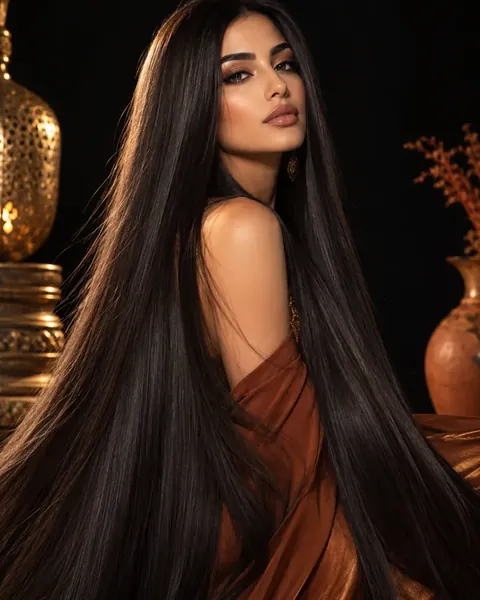
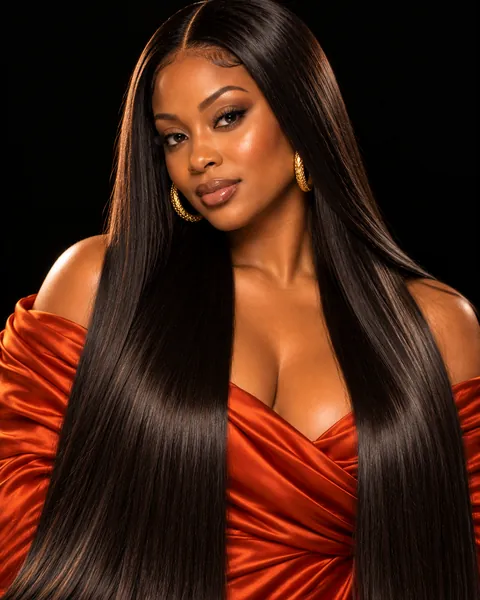
Wig Match: ChatGPT photo portraits for Bone Straight (Long) and Ultra Silky Extra-Long (QA passed); Spring Twists keeps its interim portrait (ChatGPT version did not match its label)

diff --git a/public/photo-placeholders.js b/public/photo-placeholders.js
@@ -4,7 +4,7 @@
  * styles.css. The first row of each photo grid loads eagerly; the rest stay lazy.
  */
 (() => {
-  const PALETTE = {"about-banner.webp":"#342014","community-arab.webp":"#1d180d","community-black-american.webp":"#302715","community-caribbean.webp":"#241d10","community-central-asian.webp":"#241d10","community-east-african.webp":"#2b2211","community-east-asian.webp":"#201a10","community-indigenous.webp":"#1d170e","community-latina.webp":"#2b210f","community-mixed.webp":"#322916","community-north-african.webp":"#271e0f","community-pacific-islander.webp":"#2e2412","community-south-african.webp":"#22190c","community-south-asian.webp":"#20190e","community-southeast-asian.webp":"#382b14","community-west-african.webp":"#1e150a","dna-badge.webp":"#312011","festival-diwali.webp":"#5f3218","festival-eid.webp":"#332c1f","hero-banner.webp":"#3f2518","ingredient-argan.webp":"#47301c","ingredient-rooibos.webp":"#2b170e","ingredient-shea.webp":"#584935","ingredient-turmeric.webp":"#5d3815","leap/accra.webp":"#5f3a17","leap/addis_ababa.webp":"#7c6451","leap/bangkok.webp":"#543927","leap/dubai.webp":"#503723","leap/istanbul.webp":"#492c1d","leap/johannesburg.webp":"#4f301d","leap/kingston.webp":"#50331e","leap/lagos.webp":"#604527","leap/marrakech.webp":"#7c4a2f","leap/mexico_city.webp":"#7c4f37","leap/mumbai.webp":"#482819","leap/nairobi.webp":"#654637","leap/rio.webp":"#4c2b17","leap/seoul.webp":"#503a28","leap/tehran.webp":"#53432b","leap/tokyo.webp":"#704f35","loading-screen.webp":"#362113","look-afro-glam-editorial.webp":"#422616","look-afro-latina.webp":"#492b1a","look-afrobeats-concert.webp":"#4a2d1b","look-afrobeats-queen.webp":"#4b2b12","look-afrofuturist-editorial.webp":"#39271e","look-afrofuturist.webp":"#2c231f","look-afropunk-edge.webp":"#34241a","look-afropunk-rebel.webp":"#241811","look-amapiano-babe.webp":"#3f2817","look-amapiano-beat.webp":"#4d2d19","look-amazigh-berber.webp":"#413025","look-arab-chic.webp":"#402e23","look-black-girl-natural.webp":"#442a1b","look-black-tie-gala.webp":"#42291a","look-blasian-editorial.webp":"#473020","look-bold-lip-deep.webp":"#342017","look-bollywood-bridal.webp":"#4d3524","look-bollywood-diva.webp":"#422b1b","look-brazilian-carnival.webp":"#5f3b24","look-caribbean-carnival.webp":"#603824","look-central-asian-steppe.webp":"#483124","look-champi-ritual.webp":"#584233","look-chinese-new-year.webp":"#523c31","look-clean-minimal.webp":"#4d3321","look-congolese-sapeur.webp":"#41271e","look-cumbia-corazon.webp":"#482714","look-dancehall-queen.webp":"#4e311d","look-date-night-drama.webp":"#492e1d","look-desi-baddie.webp":"#3c281a","look-desi-everyday-chic.webp":"#533b2a","look-diwali-festive.webp":"#62412b","look-eid-glam.webp":"#543a2b","look-ethiopian-icon.webp":"#443125","look-ethiopian-jewel.webp":"#462c1c","look-festival-glitter.webp":"#513322","look-filipina-glam.webp":"#543c2c","look-first-nations-powwow.webp":"#4f3525","look-gele-tie.webp":"#502a19","look-ghanaian-kente-glam.webp":"#462b19","look-graduation-glow.webp":"#5d3f2b","look-gua-sha-facial.webp":"#73665f","look-gulf-glam.webp":"#473226","look-haitian-roots.webp":"#321a11","look-haitian-vodou-editorial.webp":"#422515","look-hammam-glow.webp":"#6e6059","look-hawaiian-aloha.webp":"#623a29","look-hbcu-homecoming.webp":"#472c1c","look-hip-hop-glam.webp":"#4c3220","look-hip-hop-icon.webp":"#39271a","look-indigenous-latina.webp":"#593823","look-indigenous-star.webp":"#322016","look-indo-arabian-fusion.webp":"#543a29","look-j-beauty-muse.webp":"#57483e","look-j-beauty.webp":"#614e42","look-japanese-gyaru.webp":"#6c513e","look-k-beauty-glass.webp":"#685245","look-k-beauty-seoul.webp":"#4c3f38","look-kenyan-nairobi-chic.webp":"#442716","look-khaleeji-goddess.webp":"#45362b","look-kohl-smoky.webp":"#33261f","look-kpop-muse.webp":"#5d4d47","look-latina-glam.webp":"#553724","look-loc-journey.webp":"#4a2a1f","look-mehndi-bridal.webp":"#624736","look-mehndi-hands.webp":"#4b3222","look-mixed-heritage-luminous.webp":"#533523","look-moroccan-soiree.webp":"#4e3424","look-nath-bridal.webp":"#563224","look-nollywood-red-carpet.webp":"#44291c","look-nubian-queen.webp":"#442a19","look-office-power.webp":"#4b3525","look-owambe-glam.webp":"#58331c","look-persian-editorial.webp":"#493428","look-persian-queen.webp":"#34241b","look-polynesian-warrior.webp":"#502f1e","look-reggaeton-reina.webp":"#412314","look-rooibos-glow.webp":"#592d1c","look-silk-road-siren.webp":"#36251a","look-soca-spirit.webp":"#6b3625","look-soft-glam.webp":"#553a2a","look-somali-glam.webp":"#432d1f","look-southeast-asian-glow.webp":"#583c27","look-tamil-classical.webp":"#4b2e1f","look-thai-celestial.webp":"#634632","look-turkish-glam.webp":"#4d3527","look-ubtan-glow.webp":"#684e3a","look-waist-beads.webp":"#693620","look-wedding-guest-universal.webp":"#654532","look-west-african-skin.webp":"#442f1e","look-xhosa-glam.webp":"#382419","look-y2k-revival.webp":"#4d372a","look-zulu-bridal.webp":"#472918","looks/afro_glam_editorial.webp":"#291b13","looks/afrobeats_concert.webp":"#382420","looks/desi_baddie.webp":"#5a3426","looks/hammam_goddess.webp":"#825e3d","looks/hbcu_homecoming.webp":"#6e3726","looks/hip_hop_glam.webp":"#422f21","looks/k_beauty_seoul.webp":"#74584e","looks/loc_journey.webp":"#604a3b","looks/mehndi_bride.webp":"#72311b","looks/persian_queen.webp":"#5b3621","looks/rooibos_glow.webp":"#592b1b","looks/west_african_glow.webp":"#763b1f","mobile-mockup.webp":"#3a2217","model-face-arab.webp":"#8a7f7c","model-face-black-american.webp":"#786d69","model-face-caribbean.webp":"#897a73","model-face-east-african.webp":"#766e6c","model-face-east-asian.webp":"#9b938f","model-face-latina.webp":"#8f837c","model-face-south-african.webp":"#857977","model-face-south-asian.webp":"#8a7e78","model-face-west-african.webp":"#847a79","products/blush.webp":"#b49371","products/brow.webp":"#a48b6b","products/concealer.webp":"#b09577","products/eyeshadow.webp":"#887059","products/foundation.webp":"#ad916f","products/highlight.webp":"#9f8567","products/lash.webp":"#c0ad94","products/liner.webp":"#978770","products/lip.webp":"#b09675","products/mascara.webp":"#ac8c6b","products/serum.webp":"#a18158","products/setting.webp":"#a98b68","quiz-card.webp":"#221812","result-share-card.webp":"#382014","shade-D37.webp":"#130c08","shade-D38.webp":"#120c08","shade-D39.webp":"#100b07","shade-D40.webp":"#0f0a07","shade-D41.webp":"#0e0a07","shade-D42.webp":"#0c0a07","shade-D43.webp":"#0c0907","shade-D44.webp":"#0b0907","shade-D45.webp":"#170e08","shade-F01.webp":"#57524b","shade-F02.webp":"#544e46","shade-F03.webp":"#534c44","shade-F04.webp":"#524941","shade-F05.webp":"#50473e","shade-F06.webp":"#4f493d","shade-L07.webp":"#4e4539","shade-L08.webp":"#4b4235","shade-L09.webp":"#4a4032","shade-L10.webp":"#473d2e","shade-L11.webp":"#463b2b","shade-L12.webp":"#443829","shade-L13.webp":"#423626","shade-LM14.webp":"#403323","shade-LM15.webp":"#3e3220","shade-LM16.webp":"#3c2f1f","shade-LM17.webp":"#3a2c1c","shade-LM18.webp":"#382a1b","shade-LM19.webp":"#372819","shade-LM20.webp":"#352717","shade-M21.webp":"#322415","shade-M22.webp":"#312214","shade-M23.webp":"#2e2012","shade-M24.webp":"#2d1e11","shade-M25.webp":"#2b1d10","shade-M26.webp":"#291b0e","shade-M27.webp":"#27190d","shade-M28.webp":"#26180c","shade-MD29.webp":"#23160b","shade-MD30.webp":"#21150a","shade-MD31.webp":"#20140a","shade-MD32.webp":"#1d1209","shade-MD33.webp":"#1c1109","shade-MD34.webp":"#1a1008","shade-MD35.webp":"#190f08","shade-MD36.webp":"#150d08","shade-MX51.webp":"#1c100b","shade-MX52.webp":"#20120d","shade-MX53.webp":"#24140e","shade-MX54.webp":"#281610","shade-MX55.webp":"#2c1912","shade-MX56.webp":"#17120b","shade-MX57.webp":"#352915","shade-MX58.webp":"#372910","shade-MX59.webp":"#1c160e","shade-MX60.webp":"#30230e","shade-RD46.webp":"#483e31","shade-RD47.webp":"#43392b","shade-RD48.webp":"#3e3525","shade-RD49.webp":"#39301f","shade-RD50.webp":"#342b1a","shade-palette.webp":"#312219","trending-banner.webp":"#462a1b","wig-afro_editorial.webp":"#412013","wig-beach_wave_medium.webp":"#503120","wig-big_chop_fro.webp":"#482617","wig-blunt_lob.webp":"#593b2b","wig-bollywood_blowout.webp":"#42281a","wig-bone_straight_long.webp":"#382116","wig-box_braids_updo.webp":"#382016","wig-butterfly_locs.webp":"#3c2015","wig-coloured_wig.webp":"#342734","wig-coloured_wig_silver.webp":"#5a453a","wig-cornrow_sleek.webp":"#3f2417","wig-curly_ombre.webp":"#4a2d1c","wig-curtain_bang_layers.webp":"#382419","wig-faux_locs.webp":"#372115","wig-goddess_braids.webp":"#412517","wig-high_pony_sleek.webp":"#392014","wig-highlighted_balayage.webp":"#482c1d","wig-indian_remy_wavy.webp":"#3e2215","wig-jewelled_updo.webp":"#432d22","wig-khaleeji_blowout.webp":"#3c2218","wig-kinky_coily_afro.webp":"#3b1f14","wig-kinky_curly_mix.webp":"#382318","wig-knotless_box_braids.webp":"#392116","wig-kpop_idol_straight.webp":"#493328","wig-loc_wig.webp":"#3f2116","wig-loose_deep_wave.webp":"#412417","wig-peruvian_body_wave.webp":"#41291b","wig-senegalese_twists.webp":"#341f15","wig-silk_press_natural.webp":"#3c251a","wig-sisterlocks.webp":"#391f13","wig-sleek_bob.webp":"#604132","wig-slicked_bun.webp":"#523525","wig-twist_out_natural.webp":"#512e1c","wig-ultra_silky_xl.webp":"#362218","wig-water_wave.webp":"#372217","wigs/afro_editorial.webp":"#412013","wigs/beach_wave_medium.webp":"#513220","wigs/big_chop_fro.webp":"#745639","wigs/blunt_lob.webp":"#76462d","wigs/bollywood_blowout.webp":"#42281a","wigs/bone_straight_long.webp":"#392117","wigs/box_braids_updo.webp":"#382116","wigs/butterfly_locs.webp":"#714832","wigs/coloured_wig.webp":"#342835","wigs/coloured_wig_silver.webp":"#5b463b","wigs/cornrow_sleek.webp":"#5e4333","wigs/curly_ombre.webp":"#4c2e1d","wigs/curtain_bang_layers.webp":"#382419","wigs/faux_locs.webp":"#392815","wigs/fulani_braids.webp":"#552c18","wigs/goddess_braids.webp":"#5c2f19","wigs/high_pony_sleek.webp":"#3a2015","wigs/highlighted_balayage.webp":"#492d1d","wigs/indian_remy_wavy.webp":"#3d2215","wigs/jerry_curl.webp":"#3c2014","wigs/jewelled_updo.webp":"#90664f","wigs/jumbo_box_braids.webp":"#532d19","wigs/khaleeji_blowout.webp":"#3d2318","wigs/kinky_coily_afro.webp":"#4d2b15","wigs/kinky_curly_mix.webp":"#392319","wigs/knotless_box_braids.webp":"#8b6650","wigs/kpop_idol_straight.webp":"#4a3429","wigs/loc_wig.webp":"#502412","wigs/loose_deep_wave.webp":"#422518","wigs/passion_twists.webp":"#4d2211","wigs/peruvian_body_wave.webp":"#412a1c","wigs/pixie_cut.webp":"#3d2215","wigs/senegalese_twists.webp":"#745437","wigs/silk_press_natural.webp":"#724b34","wigs/sister_locs.webp":"#5f351e","wigs/sleek_bob.webp":"#856a5f","wigs/slicked_bun.webp":"#533626","wigs/spring_twist.webp":"#452617","wigs/stretched_puff.webp":"#4a2514","wigs/twist_out_natural.webp":"#866349","wigs/ultra_silky_xl.webp":"#372318","wigs/water_wave.webp":"#382217","your-look.webp":"#3b261a","your-shades.webp":"#412819","your-styles.webp":"#362317"};
+  const PALETTE = {"about-banner.webp":"#342014","community-arab.webp":"#1d180d","community-black-american.webp":"#302715","community-caribbean.webp":"#241d10","community-central-asian.webp":"#241d10","community-east-african.webp":"#2b2211","community-east-asian.webp":"#201a10","community-indigenous.webp":"#1d170e","community-latina.webp":"#2b210f","community-mixed.webp":"#322916","community-north-african.webp":"#271e0f","community-pacific-islander.webp":"#2e2412","community-south-african.webp":"#22190c","community-south-asian.webp":"#20190e","community-southeast-asian.webp":"#382b14","community-west-african.webp":"#1e150a","dna-badge.webp":"#312011","festival-diwali.webp":"#5f3218","festival-eid.webp":"#332c1f","hero-banner.webp":"#3f2518","ingredient-argan.webp":"#47301c","ingredient-rooibos.webp":"#2b170e","ingredient-shea.webp":"#584935","ingredient-turmeric.webp":"#5d3815","leap/accra.webp":"#5f3a17","leap/addis_ababa.webp":"#7c6451","leap/bangkok.webp":"#543927","leap/dubai.webp":"#503723","leap/istanbul.webp":"#492c1d","leap/johannesburg.webp":"#4f301d","leap/kingston.webp":"#50331e","leap/lagos.webp":"#604527","leap/marrakech.webp":"#7c4a2f","leap/mexico_city.webp":"#7c4f37","leap/mumbai.webp":"#482819","leap/nairobi.webp":"#654637","leap/rio.webp":"#4c2b17","leap/seoul.webp":"#503a28","leap/tehran.webp":"#53432b","leap/tokyo.webp":"#704f35","loading-screen.webp":"#362113","look-afro-glam-editorial.webp":"#422616","look-afro-latina.webp":"#492b1a","look-afrobeats-concert.webp":"#4a2d1b","look-afrobeats-queen.webp":"#4b2b12","look-afrofuturist-editorial.webp":"#39271e","look-afrofuturist.webp":"#2c231f","look-afropunk-edge.webp":"#34241a","look-afropunk-rebel.webp":"#241811","look-amapiano-babe.webp":"#3f2817","look-amapiano-beat.webp":"#4d2d19","look-amazigh-berber.webp":"#413025","look-arab-chic.webp":"#402e23","look-black-girl-natural.webp":"#442a1b","look-black-tie-gala.webp":"#42291a","look-blasian-editorial.webp":"#473020","look-bold-lip-deep.webp":"#342017","look-bollywood-bridal.webp":"#4d3524","look-bollywood-diva.webp":"#422b1b","look-brazilian-carnival.webp":"#5f3b24","look-caribbean-carnival.webp":"#603824","look-central-asian-steppe.webp":"#483124","look-champi-ritual.webp":"#584233","look-chinese-new-year.webp":"#523c31","look-clean-minimal.webp":"#4d3321","look-congolese-sapeur.webp":"#41271e","look-cumbia-corazon.webp":"#482714","look-dancehall-queen.webp":"#4e311d","look-date-night-drama.webp":"#492e1d","look-desi-baddie.webp":"#3c281a","look-desi-everyday-chic.webp":"#533b2a","look-diwali-festive.webp":"#62412b","look-eid-glam.webp":"#543a2b","look-ethiopian-icon.webp":"#443125","look-ethiopian-jewel.webp":"#462c1c","look-festival-glitter.webp":"#513322","look-filipina-glam.webp":"#543c2c","look-first-nations-powwow.webp":"#4f3525","look-gele-tie.webp":"#502a19","look-ghanaian-kente-glam.webp":"#462b19","look-graduation-glow.webp":"#5d3f2b","look-gua-sha-facial.webp":"#73665f","look-gulf-glam.webp":"#473226","look-haitian-roots.webp":"#321a11","look-haitian-vodou-editorial.webp":"#422515","look-hammam-glow.webp":"#6e6059","look-hawaiian-aloha.webp":"#623a29","look-hbcu-homecoming.webp":"#472c1c","look-hip-hop-glam.webp":"#4c3220","look-hip-hop-icon.webp":"#39271a","look-indigenous-latina.webp":"#593823","look-indigenous-star.webp":"#322016","look-indo-arabian-fusion.webp":"#543a29","look-j-beauty-muse.webp":"#57483e","look-j-beauty.webp":"#614e42","look-japanese-gyaru.webp":"#6c513e","look-k-beauty-glass.webp":"#685245","look-k-beauty-seoul.webp":"#4c3f38","look-kenyan-nairobi-chic.webp":"#442716","look-khaleeji-goddess.webp":"#45362b","look-kohl-smoky.webp":"#33261f","look-kpop-muse.webp":"#5d4d47","look-latina-glam.webp":"#553724","look-loc-journey.webp":"#4a2a1f","look-mehndi-bridal.webp":"#624736","look-mehndi-hands.webp":"#4b3222","look-mixed-heritage-luminous.webp":"#533523","look-moroccan-soiree.webp":"#4e3424","look-nath-bridal.webp":"#563224","look-nollywood-red-carpet.webp":"#44291c","look-nubian-queen.webp":"#442a19","look-office-power.webp":"#4b3525","look-owambe-glam.webp":"#58331c","look-persian-editorial.webp":"#493428","look-persian-queen.webp":"#34241b","look-polynesian-warrior.webp":"#502f1e","look-reggaeton-reina.webp":"#412314","look-rooibos-glow.webp":"#592d1c","look-silk-road-siren.webp":"#36251a","look-soca-spirit.webp":"#6b3625","look-soft-glam.webp":"#553a2a","look-somali-glam.webp":"#432d1f","look-southeast-asian-glow.webp":"#583c27","look-tamil-classical.webp":"#4b2e1f","look-thai-celestial.webp":"#634632","look-turkish-glam.webp":"#4d3527","look-ubtan-glow.webp":"#684e3a","look-waist-beads.webp":"#693620","look-wedding-guest-universal.webp":"#654532","look-west-african-skin.webp":"#442f1e","look-xhosa-glam.webp":"#382419","look-y2k-revival.webp":"#4d372a","look-zulu-bridal.webp":"#472918","looks/afro_glam_editorial.webp":"#291b13","looks/afrobeats_concert.webp":"#382420","looks/desi_baddie.webp":"#5a3426","looks/hammam_goddess.webp":"#825e3d","looks/hbcu_homecoming.webp":"#6e3726","looks/hip_hop_glam.webp":"#422f21","looks/k_beauty_seoul.webp":"#74584e","looks/loc_journey.webp":"#604a3b","looks/mehndi_bride.webp":"#72311b","looks/persian_queen.webp":"#5b3621","looks/rooibos_glow.webp":"#592b1b","looks/west_african_glow.webp":"#763b1f","mobile-mockup.webp":"#3a2217","model-face-arab.webp":"#8a7f7c","model-face-black-american.webp":"#786d69","model-face-caribbean.webp":"#897a73","model-face-east-african.webp":"#766e6c","model-face-east-asian.webp":"#9b938f","model-face-latina.webp":"#8f837c","model-face-south-african.webp":"#857977","model-face-south-asian.webp":"#8a7e78","model-face-west-african.webp":"#847a79","products/blush.webp":"#b49371","products/brow.webp":"#a48b6b","products/concealer.webp":"#b09577","products/eyeshadow.webp":"#887059","products/foundation.webp":"#ad916f","products/highlight.webp":"#9f8567","products/lash.webp":"#c0ad94","products/liner.webp":"#978770","products/lip.webp":"#b09675","products/mascara.webp":"#ac8c6b","products/serum.webp":"#a18158","products/setting.webp":"#a98b68","quiz-card.webp":"#221812","result-share-card.webp":"#382014","shade-D37.webp":"#130c08","shade-D38.webp":"#120c08","shade-D39.webp":"#100b07","shade-D40.webp":"#0f0a07","shade-D41.webp":"#0e0a07","shade-D42.webp":"#0c0a07","shade-D43.webp":"#0c0907","shade-D44.webp":"#0b0907","shade-D45.webp":"#170e08","shade-F01.webp":"#57524b","shade-F02.webp":"#544e46","shade-F03.webp":"#534c44","shade-F04.webp":"#524941","shade-F05.webp":"#50473e","shade-F06.webp":"#4f493d","shade-L07.webp":"#4e4539","shade-L08.webp":"#4b4235","shade-L09.webp":"#4a4032","shade-L10.webp":"#473d2e","shade-L11.webp":"#463b2b","shade-L12.webp":"#443829","shade-L13.webp":"#423626","shade-LM14.webp":"#403323","shade-LM15.webp":"#3e3220","shade-LM16.webp":"#3c2f1f","shade-LM17.webp":"#3a2c1c","shade-LM18.webp":"#382a1b","shade-LM19.webp":"#372819","shade-LM20.webp":"#352717","shade-M21.webp":"#322415","shade-M22.webp":"#312214","shade-M23.webp":"#2e2012","shade-M24.webp":"#2d1e11","shade-M25.webp":"#2b1d10","shade-M26.webp":"#291b0e","shade-M27.webp":"#27190d","shade-M28.webp":"#26180c","shade-MD29.webp":"#23160b","shade-MD30.webp":"#21150a","shade-MD31.webp":"#20140a","shade-MD32.webp":"#1d1209","shade-MD33.webp":"#1c1109","shade-MD34.webp":"#1a1008","shade-MD35.webp":"#190f08","shade-MD36.webp":"#150d08","shade-MX51.webp":"#1c100b","shade-MX52.webp":"#20120d","shade-MX53.webp":"#24140e","shade-MX54.webp":"#281610","shade-MX55.webp":"#2c1912","shade-MX56.webp":"#17120b","shade-MX57.webp":"#352915","shade-MX58.webp":"#372910","shade-MX59.webp":"#1c160e","shade-MX60.webp":"#30230e","shade-RD46.webp":"#483e31","shade-RD47.webp":"#43392b","shade-RD48.webp":"#3e3525","shade-RD49.webp":"#39301f","shade-RD50.webp":"#342b1a","shade-palette.webp":"#312219","trending-banner.webp":"#462a1b","wig-afro_editorial.webp":"#412013","wig-beach_wave_medium.webp":"#503120","wig-big_chop_fro.webp":"#482617","wig-blunt_lob.webp":"#593b2b","wig-bollywood_blowout.webp":"#42281a","wig-bone_straight_long.webp":"#382116","wig-box_braids_updo.webp":"#382016","wig-butterfly_locs.webp":"#3c2015","wig-coloured_wig.webp":"#342734","wig-coloured_wig_silver.webp":"#5a453a","wig-cornrow_sleek.webp":"#3f2417","wig-curly_ombre.webp":"#4a2d1c","wig-curtain_bang_layers.webp":"#382419","wig-faux_locs.webp":"#372115","wig-goddess_braids.webp":"#412517","wig-high_pony_sleek.webp":"#392014","wig-highlighted_balayage.webp":"#482c1d","wig-indian_remy_wavy.webp":"#3e2215","wig-jewelled_updo.webp":"#432d22","wig-khaleeji_blowout.webp":"#3c2218","wig-kinky_coily_afro.webp":"#3b1f14","wig-kinky_curly_mix.webp":"#382318","wig-knotless_box_braids.webp":"#392116","wig-kpop_idol_straight.webp":"#493328","wig-loc_wig.webp":"#3f2116","wig-loose_deep_wave.webp":"#412417","wig-peruvian_body_wave.webp":"#41291b","wig-senegalese_twists.webp":"#341f15","wig-silk_press_natural.webp":"#3c251a","wig-sisterlocks.webp":"#391f13","wig-sleek_bob.webp":"#604132","wig-slicked_bun.webp":"#523525","wig-twist_out_natural.webp":"#512e1c","wig-ultra_silky_xl.webp":"#362218","wig-water_wave.webp":"#372217","wigs/afro_editorial.webp":"#412013","wigs/beach_wave_medium.webp":"#513220","wigs/big_chop_fro.webp":"#745639","wigs/blunt_lob.webp":"#76462d","wigs/bollywood_blowout.webp":"#42281a","wigs/bone_straight_long.webp":"#492516","wigs/box_braids_updo.webp":"#382116","wigs/butterfly_locs.webp":"#714832","wigs/coloured_wig.webp":"#342835","wigs/coloured_wig_silver.webp":"#5b463b","wigs/cornrow_sleek.webp":"#5e4333","wigs/curly_ombre.webp":"#4c2e1d","wigs/curtain_bang_layers.webp":"#382419","wigs/faux_locs.webp":"#392815","wigs/fulani_braids.webp":"#552c18","wigs/goddess_braids.webp":"#5c2f19","wigs/high_pony_sleek.webp":"#3a2015","wigs/highlighted_balayage.webp":"#492d1d","wigs/indian_remy_wavy.webp":"#3d2215","wigs/jerry_curl.webp":"#3c2014","wigs/jewelled_updo.webp":"#90664f","wigs/jumbo_box_braids.webp":"#532d19","wigs/khaleeji_blowout.webp":"#3d2318","wigs/kinky_coily_afro.webp":"#4d2b15","wigs/kinky_curly_mix.webp":"#392319","wigs/knotless_box_braids.webp":"#8b6650","wigs/kpop_idol_straight.webp":"#4a3429","wigs/loc_wig.webp":"#502412","wigs/loose_deep_wave.webp":"#422518","wigs/passion_twists.webp":"#4d2211","wigs/peruvian_body_wave.webp":"#412a1c","wigs/pixie_cut.webp":"#3d2215","wigs/senegalese_twists.webp":"#745437","wigs/silk_press_natural.webp":"#724b34","wigs/sister_locs.webp":"#5f351e","wigs/sleek_bob.webp":"#856a5f","wigs/slicked_bun.webp":"#533626","wigs/spring_twist.webp":"#452617","wigs/stretched_puff.webp":"#4a2514","wigs/twist_out_natural.webp":"#866349","wigs/ultra_silky_xl.webp":"#472214","wigs/water_wave.webp":"#382217","your-look.webp":"#3b261a","your-shades.webp":"#412819","your-styles.webp":"#362317"};
   const FIRST_ROW = 4;
   const key = src => { try { return decodeURIComponent(new URL(src, location.href).pathname.replace(/^\//, '')); } catch { return ''; } };
   function prep(img) {
